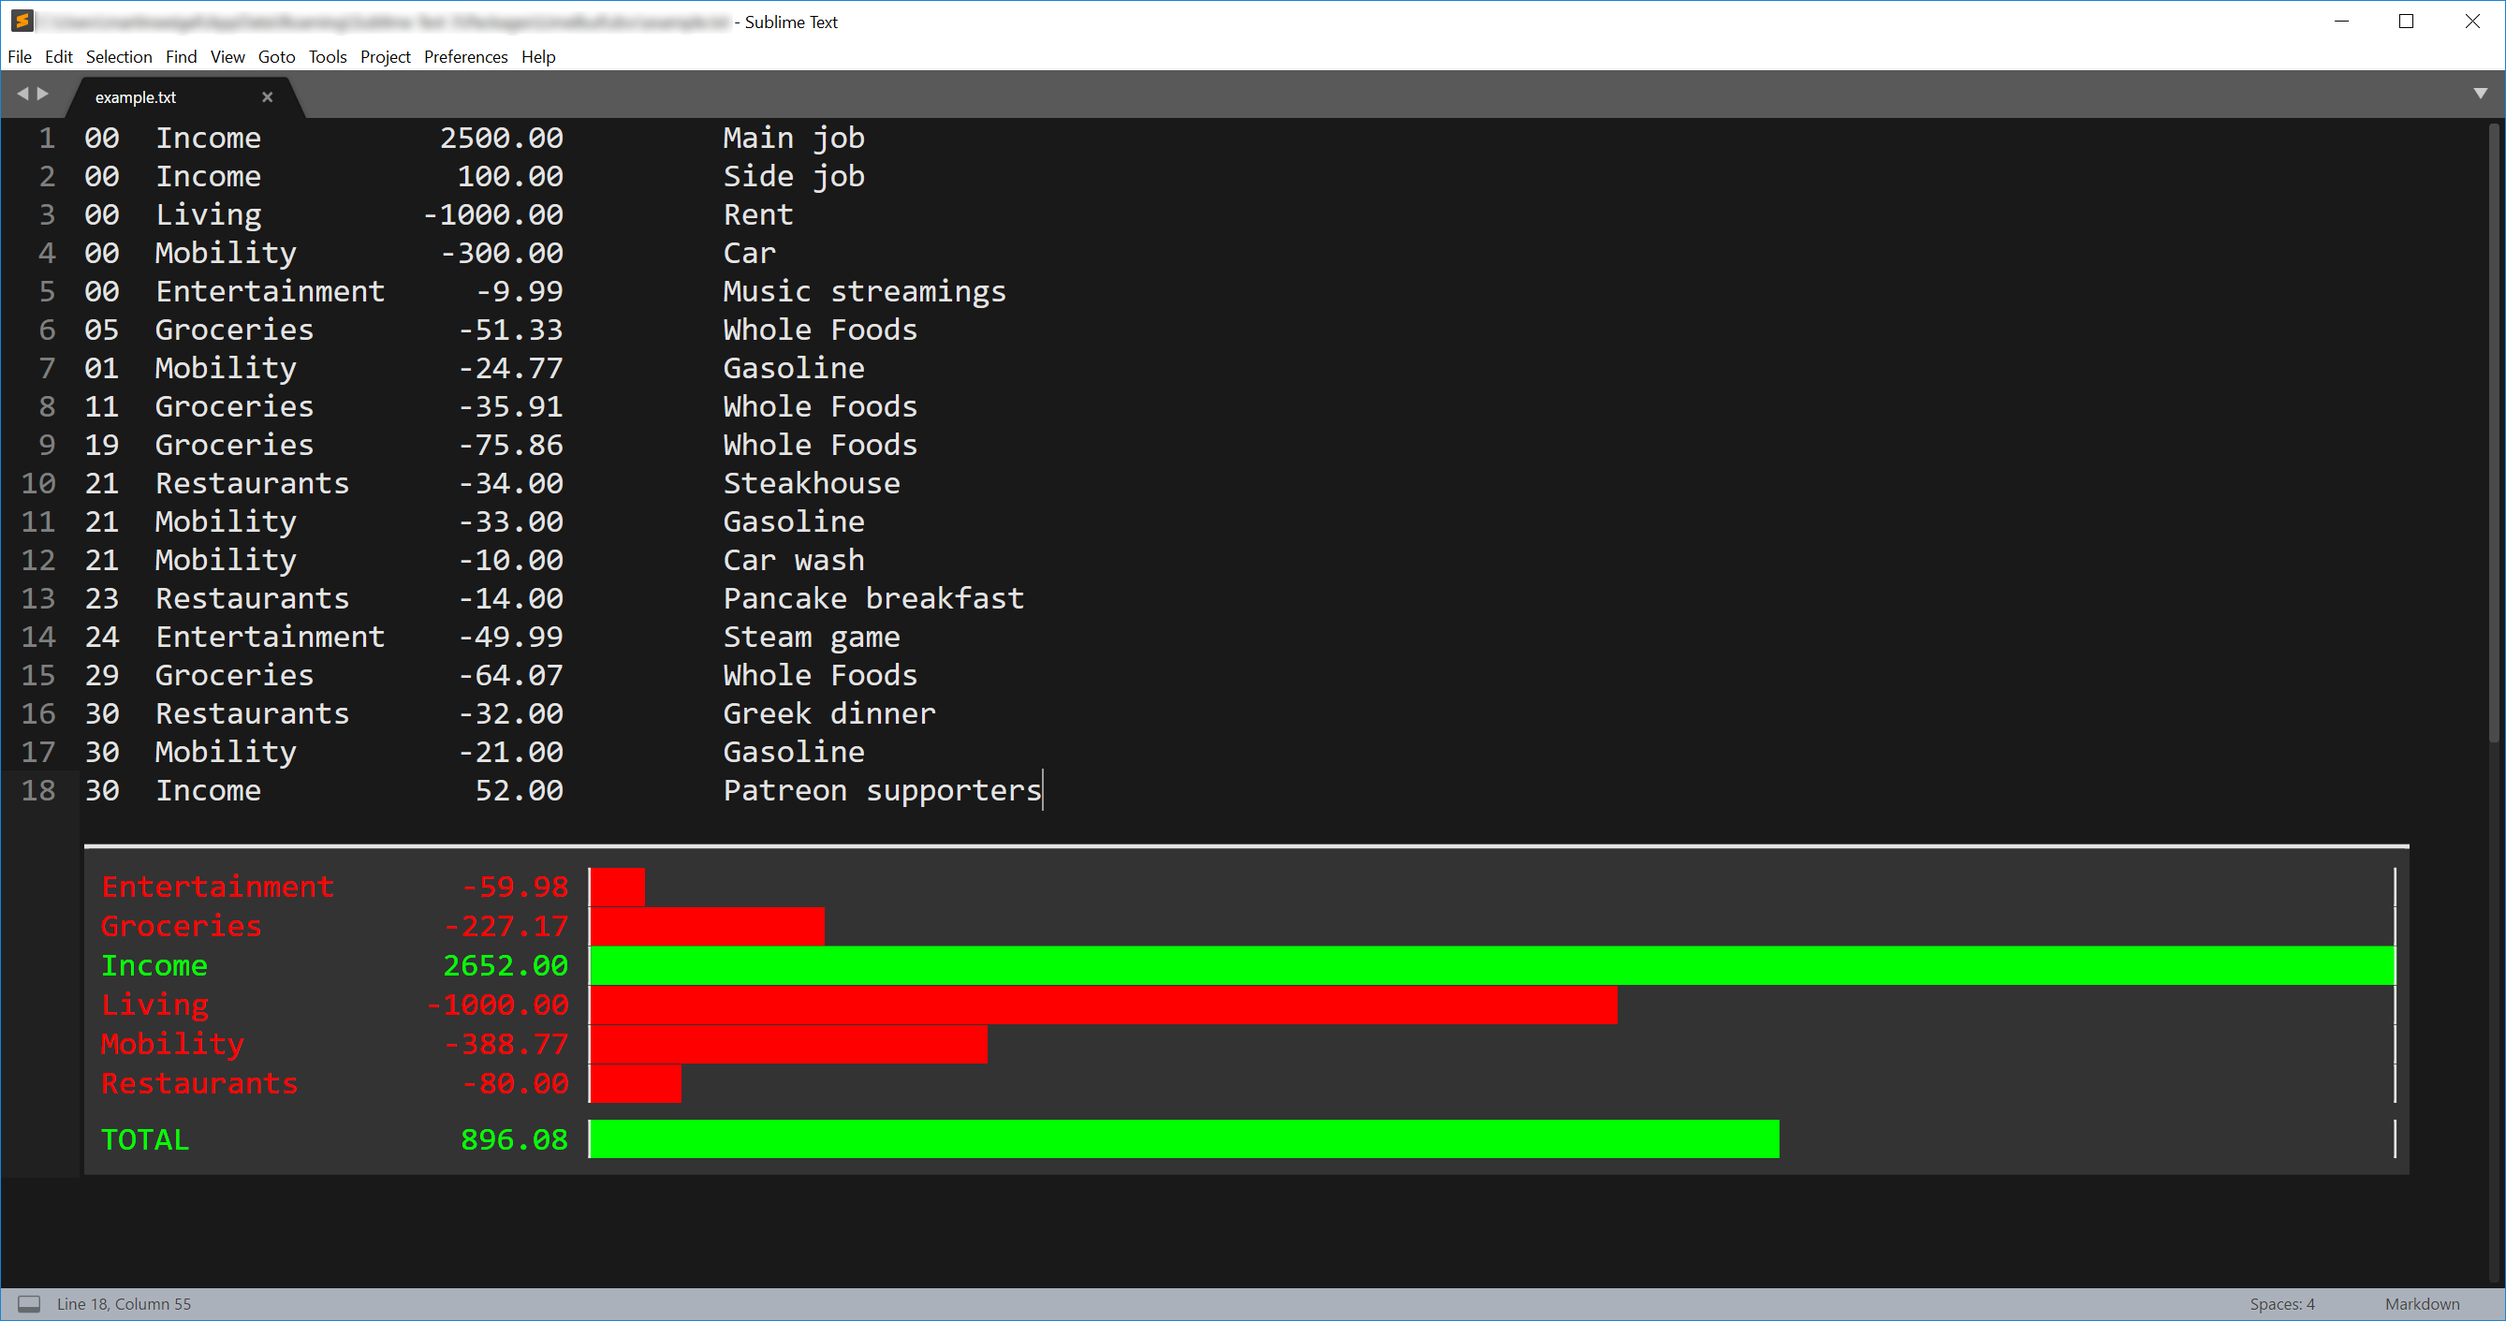
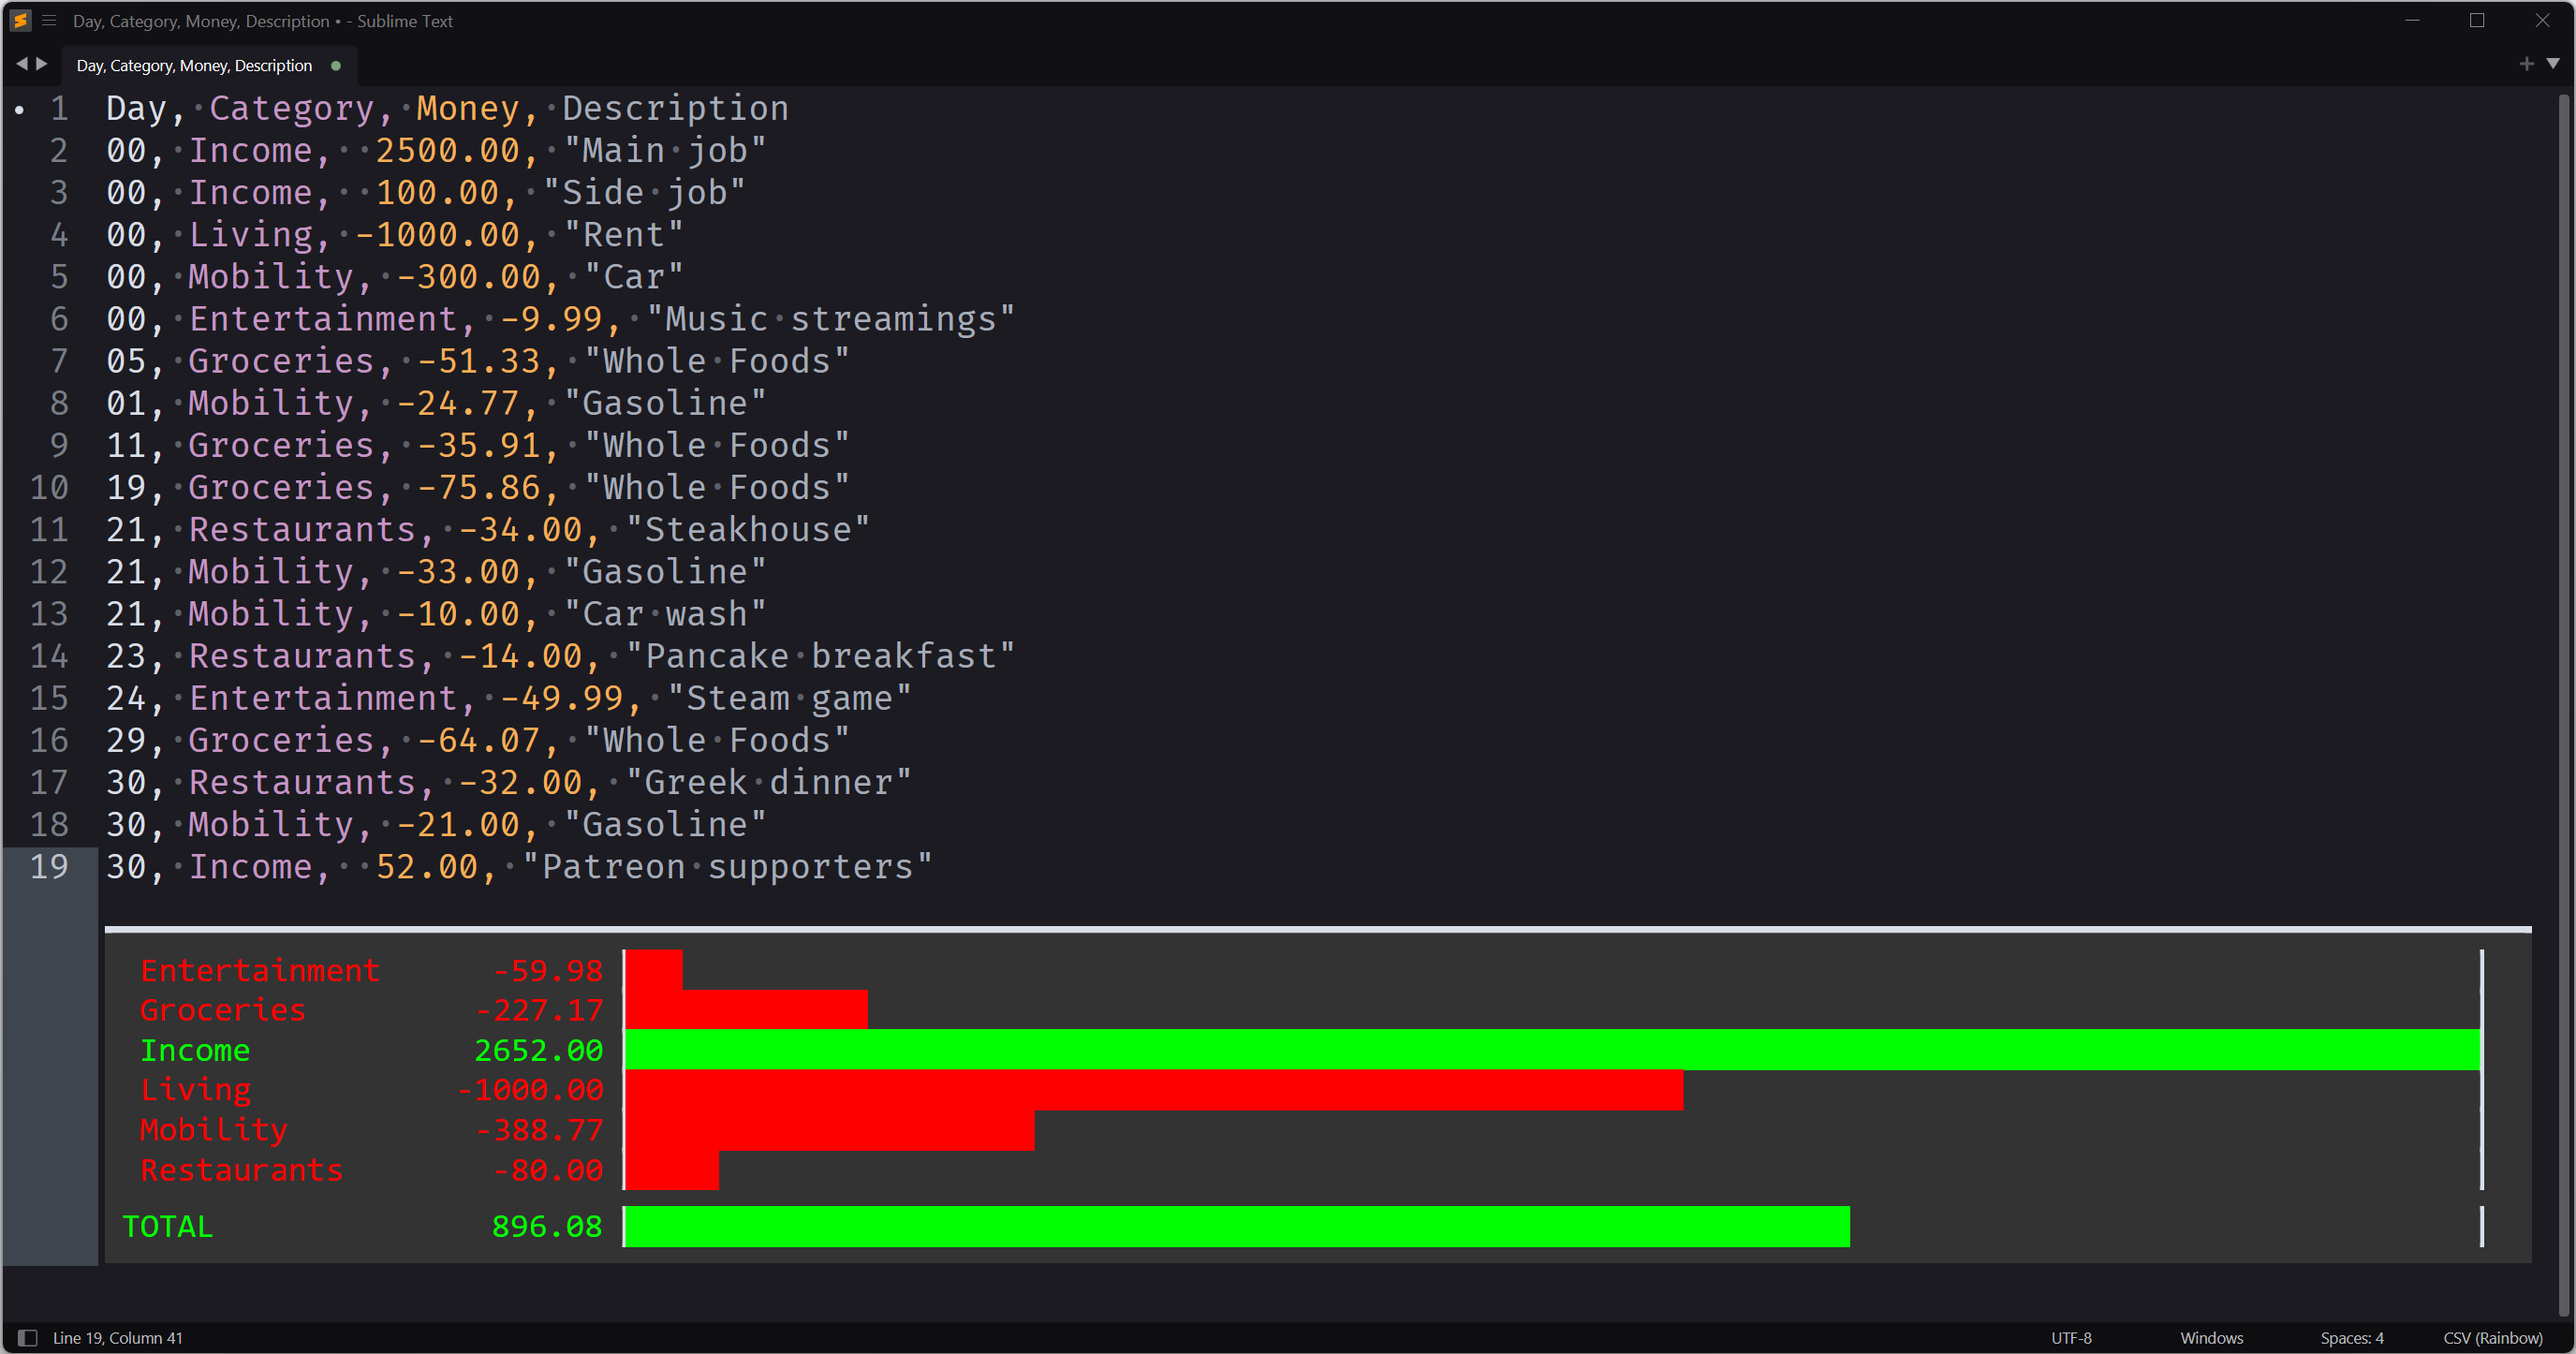
feat: CSV instead of whitespace separation

diff --git a/limebud.py b/limebud.py
@@ -61,7 +61,7 @@ class LimebudCommand(sublime_plugin.TextCommand):
 
         # Iterate over all lines to calculate total
         for index, line in enumerate(lines):
-            cols = re.split(r'\s+', line)
+            cols = re.split(',', line)
             if(len(cols) >= 3):
                 try:
                     value = float(cols[2])

diff --git a/README.md b/README.md
@@ -1,7 +1,8 @@
 # LimeBud: Plaintext Budgeting in Sublime Text
 
 *LimeBud* is a Sublime Text 3 plugin to show reports of plaintext budget files.
-These files are a human readable log of all expenses filed under multiple categories.
+These files are based on the comma-separated values (CSV) format.
+They are a human readable log of all expenses filed under multiple categories.
 Based on these files, *LimeBud* creates a report of your expenses.
 They help you in understanding how much you spent in each category and how much money you have left each month.
 
@@ -16,24 +17,25 @@ The name of the category and the text in the comment field can be freely chosen.
 The expense should use a dot to separate cents (format: `[-][0-9]+.[0-9][0-9]`).
 There is no currency support. Just use your main currency and stick to it.
 
-    00  Income          2500.00         Main job
-    00  Income           100.00         Side job
-    00  Living         -1000.00         Rent
-    00  Mobility        -300.00         Car
-    00  Entertainment     -9.99         Music streamings
-    05  Groceries        -51.33         Whole Foods
-    01  Mobility         -24.77         Gasoline
-    11  Groceries        -35.91         Whole Foods
-    19  Groceries        -75.86         Whole Foods
-    21  Restaurants      -34.00         Steakhouse
-    21  Mobility         -33.00         Gasoline
-    21  Mobility         -10.00         Car wash
-    23  Restaurants      -14.00         Pancake breakfast
-    24  Entertainment    -49.99         Steam game
-    29  Groceries        -64.07         Whole Foods
-    30  Restaurants      -32.00         Greek dinner
-    30  Mobility         -21.00         Gasoline
-    30  Income            52.00         Patreon supporters
+    Day, Category, Money, Description
+    00, Income,  2500.00, "Main job"
+    00, Income,  100.00, "Side job"
+    00, Living, -1000.00, "Rent"
+    00, Mobility, -300.00, "Car"
+    00, Entertainment, -9.99, "Music streamings"
+    05, Groceries, -51.33, "Whole Foods"
+    01, Mobility, -24.77, "Gasoline"
+    11, Groceries, -35.91, "Whole Foods"
+    19, Groceries, -75.86, "Whole Foods"
+    21, Restaurants, -34.00, "Steakhouse"
+    21, Mobility, -33.00, "Gasoline"
+    21, Mobility, -10.00, "Car wash"
+    23, Restaurants, -14.00, "Pancake breakfast"
+    24, Entertainment, -49.99, "Steam game"
+    29, Groceries, -64.07, "Whole Foods"
+    30, Restaurants, -32.00, "Greek dinner"
+    30, Mobility, -21.00, "Gasoline"
+    30, Income,  52.00, "Patreon supporters"
 
 To try out *LimeBud*, copy the example into a new file inside *Sublime Text*.
 Open the *Command Palette* (`CTRL+SHIFT+P`) and type *LimeBud*.
@@ -47,13 +49,15 @@ You can also keep different files for different purposes, e.g., personal, busine
 The day category also supports full dates as long as they do not include any whitespace (e.g., 2018-04-21).
 Just experiment around to find the best usage of it for your life.
 
+**Note:** CSV files become much more readable and beautiful, if you use the [rainbow_csv package](https://github.com/mechatroner/sublime_rainbow_csv).
+
 
 ## Installation
 
 First go to the plugin folder by clicking `Preferences > Browse Packages`.
 On Windows the path should be similar to:
 
-    C:\Users\<username>\AppData\Roaming\Sublime Text 3\Packages\
+    C:\Users\<username>\AppData\Roaming\Sublime Text\Packages\
 
 If you are using git, just clone this repository:
 
